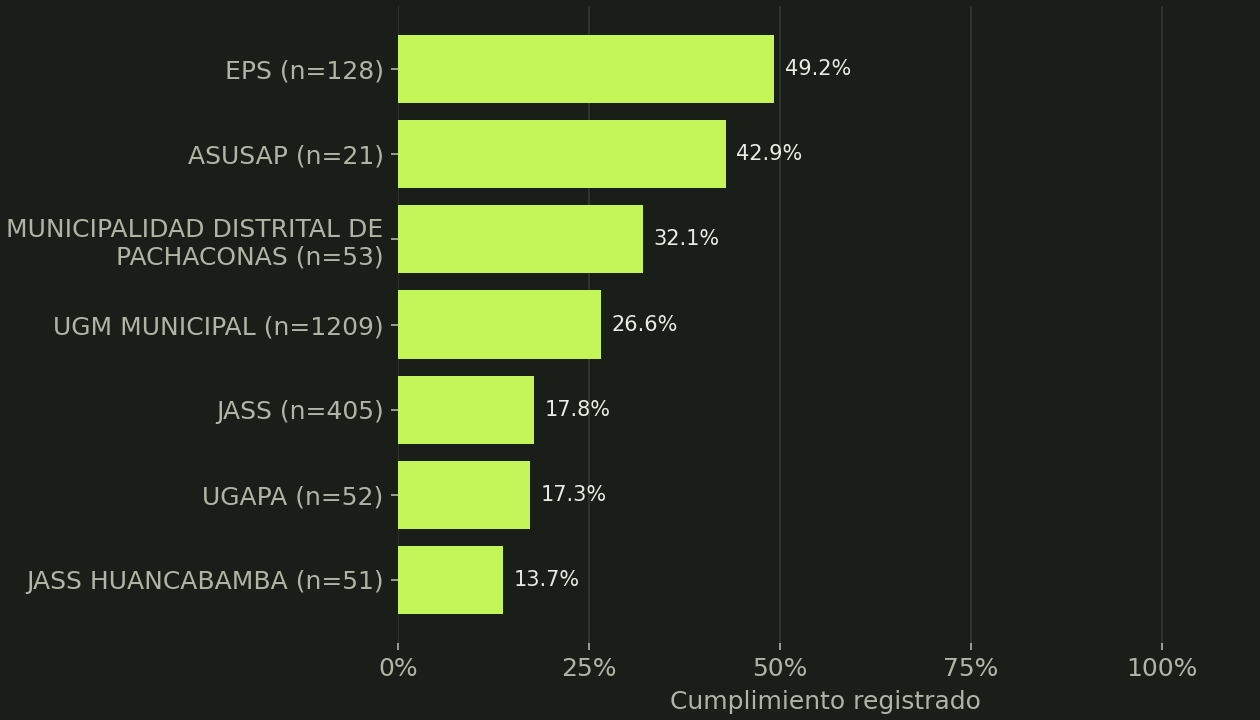
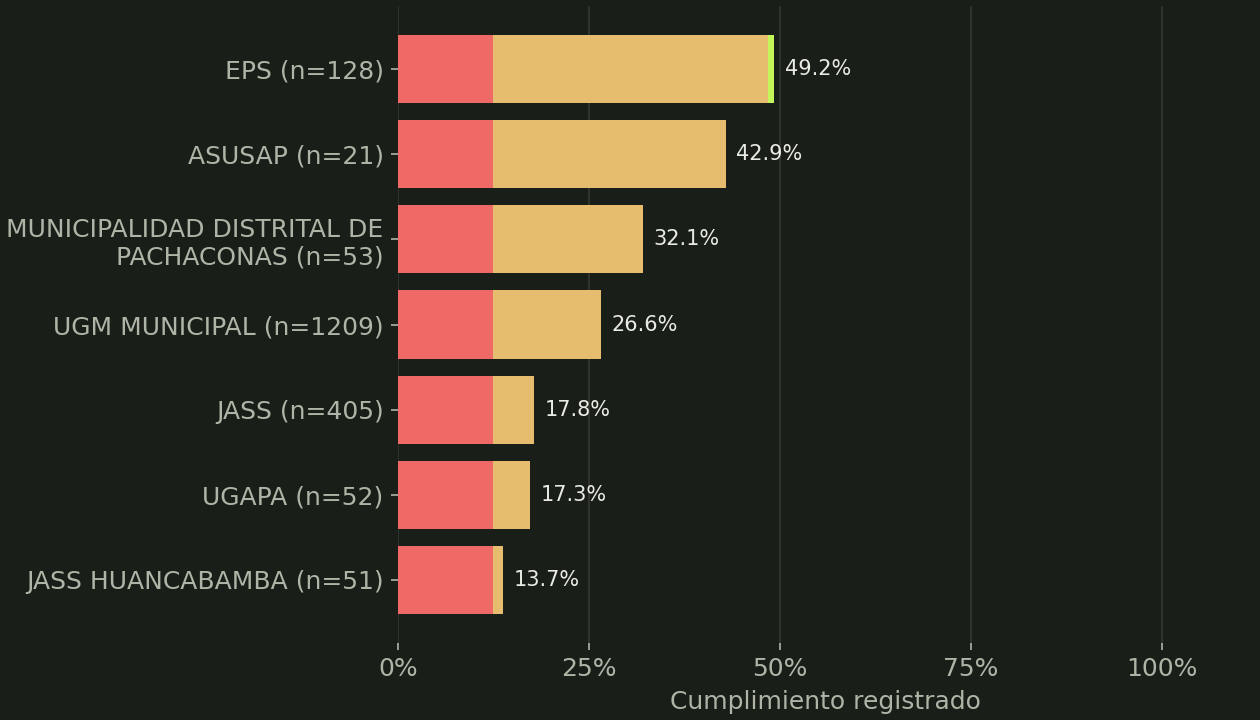
Mejora diseño adaptable y documenta temas claro y oscuro

Changed region(s): [[0.3095, 0.0306, 0.619, 0.8556]]

diff --git a/src/App.css b/src/App.css
@@ -1,5 +1,5 @@
 .shell { width: min(100% - 2 * clamp(1rem, 4vw, 4rem), 84rem); margin-inline: auto; }
-.skip-link { position: fixed; top: 1rem; left: 1rem; z-index: 5; padding: 1rem; background: var(--accent); color: var(--ground); transform: translateY(-200%); }
+.skip-link { position: fixed; top: 1rem; left: 1rem; z-index: 5; padding: 1rem; background: var(--accent); color: var(--on-accent); transform: translateY(-200%); }
 .skip-link:focus { transform: none; }
 .site-header { border-bottom: 1px solid var(--edge); }
 .header-content { min-height: 4.5rem; display: flex; align-items: center; justify-content: space-between; gap: .75rem 1.5rem; }
@@ -10,6 +10,20 @@
 .brand-symbol i:nth-child(2) { opacity: .72; }
 .brand-symbol i:nth-child(3) { opacity: .42; }
 .site-header nav { display: flex; align-items: center; gap: clamp(.85rem, 3vw, 2.5rem); }
+.theme-toggle {
+  min-height: 44px;
+  display: inline-flex;
+  align-items: center;
+  gap: .45rem;
+  border: 1px solid var(--edge);
+  background: var(--surface);
+  color: var(--ink);
+  padding: .5rem .72rem;
+  border-radius: 999px;
+  font-weight: 750;
+}
+.theme-toggle span { color: var(--accent); font-size: 1.1rem; }
+.theme-toggle:hover { border-color: var(--accent); }
 .site-header nav a, .site-footer a, .text-link { min-height: 44px; display: inline-flex; align-items: center; gap: .4rem; font-size: .95rem; text-decoration: none; }
 .site-header nav a:hover, .site-header nav a[aria-current], .site-footer a:hover, .text-link:hover { color: var(--accent); }
 
@@ -20,12 +34,12 @@
 .hero p { max-width: 29ch; margin-top: 1.75rem; font-size: clamp(1rem, 1.55vw, 1.35rem); line-height: 1.45; color: var(--ink); }
 .hero-art { margin-left: -13%; align-self: stretch; position: relative; overflow: hidden; background: var(--ground); clip-path: polygon(0 2%, 100% 0%, 100% 96%, 6% 100%); }
 .hero-art img { width: 100%; height: 100%; min-height: 23rem; position: absolute; inset: 0; object-fit: cover; object-position: 55% center; }
-.primary-link { display: inline-flex; align-items: center; justify-content: space-between; gap: 1.7rem; min-height: 48px; padding: .65rem 1rem; margin-top: 1.45rem; background: var(--accent); color: var(--ground); text-decoration: none; font-weight: 800; transition: background .18s ease; }
+.primary-link { display: inline-flex; align-items: center; justify-content: space-between; gap: 1.7rem; min-height: 48px; padding: .65rem 1rem; margin-top: 1.45rem; background: var(--accent); color: var(--on-accent); text-decoration: none; font-weight: 800; transition: background .18s ease; }
 .primary-link:hover { background: #e1ff9f; }
 .primary-link span { font-size: 1.3rem; }
-.metrics-band { background: var(--accent); color: var(--ground); }
+.metrics-band { background: var(--accent); color: var(--on-accent); }
 .metrics { display: grid; grid-template-columns: 1.18fr .8fr .8fr 1.15fr; padding-block: 1.15rem; gap: 1rem; }
-.metric { min-width: 0; display: flex; flex-direction: column-reverse; justify-content: center; gap: .1rem; padding-inline: clamp(.25rem, 2vw, 1.5rem); border-left: 1px solid #608124; }
+.metric { min-width: 0; display: flex; flex-direction: column-reverse; justify-content: center; gap: .1rem; padding-inline: clamp(.25rem, 2vw, 1.5rem); border-left: 1px solid color-mix(in srgb, var(--ground) 38%, transparent); }
 .metric dt { font-size: .9rem; font-weight: 700; }
 .metric dd { font: 800 clamp(2.3rem, 5.4vw, 4.7rem)/.9 var(--display); letter-spacing: -.02em; }
 
@@ -58,7 +72,7 @@
 .prediction-fields { display: grid; grid-template-columns: repeat(2, minmax(0, 1fr)); gap: 1rem; }
 .form-field { display: grid; gap: .4rem; min-width: 0; }
 .form-field :is(input,select) { width: 100%; min-height: 44px; border: 1px solid var(--edge); background: var(--ground); color: var(--ink); padding: .55rem; }
-.prediction-submit { min-height: 48px; border: 0; padding: .65rem .8rem; color: var(--ground); background: var(--accent); font-weight: 750; }
+.prediction-submit { min-height: 48px; border: 0; padding: .65rem .8rem; color: var(--on-accent); background: var(--accent); font-weight: 750; }
 .prediction-submit span { margin-left: .5rem; }
 
 .site-footer { border-top: 1px solid var(--edge); }
@@ -72,11 +86,12 @@
 }
 @media (max-width: 650px) {
   .header-content { padding-block: .35rem; flex-wrap: wrap; column-gap: 1rem; }
-  .site-header nav { gap: clamp(.85rem, 3.7vw, 1.5rem); }
-  .site-header nav a { font-size: .86rem; }
+  .site-header nav { width: 100%; display: grid; grid-template-columns: repeat(2, minmax(0, 1fr)); gap: .25rem .5rem; }
+  .site-header nav a { min-height: 44px; padding-inline: .5rem; font-size: .9rem; }
+  .theme-toggle { min-height: 44px; justify-content: center; padding-inline: .6rem; font-size: .88rem; }
   .hero { display: flex; flex-direction: column; align-items: stretch; min-height: 0; padding-block: 2.45rem 1.25rem; gap: 1.5rem; }
   .hero-copy { align-self: start; padding: 0; }
-  .hero h1 { font-size: clamp(4.4rem, 18vw, 7rem); }
+  .hero h1 { font-size: clamp(4rem, 18vw, 7rem); }
   .hero p { margin-top: 1.25rem; }
   .hero-art { aspect-ratio: 1.6; margin-left: 0; }
   .hero-art img { min-height: 0; }
@@ -84,6 +99,9 @@
   .metric dt { font-size: .83rem; }
   .context-section { grid-template-columns: 1fr; gap: 1.2rem; }
   .charts-grid, .prediction-fields { grid-template-columns: 1fr; }
+  .prediction-shell { padding-block: 1rem 3rem; }
+  .prediction-card { gap: 1rem; padding: 1rem; }
+  .prediction-submit { line-height: 1.35; }
   .footer-content { grid-template-columns: 1fr; }
 }
 
@@ -105,6 +123,9 @@
   .section-heading .chart-count { margin-top: .5rem; }
   .chart-caption { padding-inline: .9rem; }
   .chart-interpretation { padding-inline: .9rem; }
+  .chart-dialog { width: calc(100vw - 1rem); max-height: 90dvh; padding: .8rem; }
+  .dialog-actions { align-items: stretch; }
+  .dialog-actions > * { justify-content: center; }
 }
 
 .arrow { display: inline-block; width: .8em; height: .8em; position: relative; flex: none; }
@@ -122,5 +143,13 @@
 .zoom-control:hover { border-color: var(--accent); }
 @media (max-width: 650px) {
   .chart-filters { gap: .35rem; }
-  .chart-filters button { padding-inline: .55rem; font-size: .88rem; }
+  .chart-filters button { min-height: 44px; padding-inline: .65rem; font-size: .9rem; }
+  .dialog-image--zoom img { min-width: 48rem; }
+}
+
+@media (max-width: 360px) {
+  .shell { width: calc(100% - 1.5rem); }
+  .hero h1 { font-size: 3.8rem; }
+  .metric dd { font-size: 2.1rem; }
+  .metric dt { font-size: .78rem; }
 }

diff --git a/src/App.jsx b/src/App.jsx
@@ -9,8 +9,22 @@ function leerVista() {
   return window.location.hash === '#prediccion' ? 'prediccion' : 'contexto'
 }
 
+function leerTema() {
+  const guardado = window.localStorage.getItem('residual-theme')
+  if (guardado === 'claro' || guardado === 'oscuro') return guardado
+  return window.matchMedia('(prefers-color-scheme: light)').matches ? 'claro' : 'oscuro'
+}
+
 function App() {
   const [vista, setVista] = useState(leerVista)
+  const [tema, setTema] = useState(leerTema)
+
+  useEffect(() => {
+    document.documentElement.dataset.theme = tema
+    document.documentElement.style.colorScheme = tema
+    window.localStorage.setItem('residual-theme', tema)
+  }, [tema])
+
   useEffect(() => {
     const actualizarVista = () => setVista(leerVista())
     window.addEventListener('hashchange', actualizarVista)
@@ -38,6 +52,16 @@ function App() {
             <a href="#inicio">Contexto</a>
             <a href="#analisis">Gráficos</a>
             <a href="#prediccion" aria-current={vista === 'prediccion' ? 'page' : undefined}>Predicción IA</a>
+            <button
+              className="theme-toggle"
+              type="button"
+              aria-label={`Cambiar a tema ${tema === 'oscuro' ? 'claro' : 'oscuro'}`}
+              aria-pressed={tema === 'claro'}
+              onClick={() => setTema((actual) => actual === 'oscuro' ? 'claro' : 'oscuro')}
+            >
+              <span aria-hidden="true">{tema === 'oscuro' ? '☀' : '☾'}</span>
+              {tema === 'oscuro' ? 'Claro' : 'Oscuro'}
+            </button>
           </nav>
         </div>
       </header>

diff --git a/src/index.css b/src/index.css
@@ -14,19 +14,33 @@
 
 :root {
   font-family: 'DM Sans', system-ui, sans-serif;
-  color: #f6f6f4;
-  background: #111310;
-  color-scheme: dark;
+  color: #1b1d19;
+  background: #f4f6ef;
+  color-scheme: light;
   font-synthesis: none;
   text-rendering: optimizeLegibility;
   -webkit-font-smoothing: antialiased;
+  --ground: #f4f6ef;
+  --surface: #ffffff;
+  --edge: #d4d9cb;
+  --ink: #1b1d19;
+  --muted: #5d6457;
+  --accent: #86a600;
+  --on-accent: #1b1d19;
+  --display: 'Barlow Condensed', 'Arial Narrow', system-ui, sans-serif;
+}
+
+:root[data-theme='oscuro'] {
+  color: #f6f6f4;
+  background: #111310;
+  color-scheme: dark;
   --ground: #111310;
   --surface: #1a1e18;
   --edge: #353b30;
   --ink: #f6f6f4;
   --muted: #bdc4b5;
   --accent: #c4f65a;
-  --display: 'Barlow Condensed', 'Arial Narrow', system-ui, sans-serif;
+  --on-accent: #111310;
 }
 
 * { box-sizing: border-box; }

diff --git a/scripts/graficos.py b/scripts/graficos.py
@@ -17,6 +17,10 @@ MUTED = "#aeb5a6"
 FONDO = "#1a1e18"
 LIMA = "#c4f65a"
 COLORES = {"CRITICO": "#ff8879", "DEFICIENTE": "#e6bd6e", "OPTIMO": LIMA, "ALTO": "#bbadfa"}
+AZUL = "#67a9ff"
+TURQUESA = "#55b8a8"
+ROJO = "#ef6a67"
+AMARILLO = "#e6bd6e"
 ETIQUETAS = {"CRITICO": "Crítico", "DEFICIENTE": "Deficiente", "OPTIMO": "Óptimo", "ALTO": "Alto"}
 
 plt.rcParams.update({
@@ -38,7 +42,16 @@ def guardar(fig, destino, nombre):
     plt.close(fig)
 
 
-def barras_horizontales(serie, etiqueta, color=LIMA):
+def color_por_valor(valor, minimo, maximo):
+    posicion = (valor - minimo) / (maximo - minimo) if maximo > minimo else 1
+    if posicion < .33:
+        return ROJO
+    if posicion < .67:
+        return AMARILLO
+    return LIMA
+
+
+def barras_horizontales(serie, etiqueta, color=AZUL):
     fig, ax = figura()
     barras = ax.barh([fill(str(v), width=25) for v in serie.index], serie.values, color=color)
     ax.bar_label(barras, padding=5, color=TINTA, fontsize=10)
@@ -79,7 +92,8 @@ def principal():
         ("tasa", "cumplimiento-mensual", "Cumplimiento registrado"),
     ):
         fig, ax = figura()
-        ax.plot(range(len(mensual)), mensual[campo], color=LIMA, linewidth=2.5, marker="o", markersize=4)
+        color = AZUL if campo == "promedio" else AMARILLO
+        ax.plot(range(len(mensual)), mensual[campo], color=color, linewidth=2.5, marker="o", markersize=4)
         marcas = sorted(set(range(0, len(mensual), 4)) | {len(mensual) - 1})
         ax.set(xticks=marcas, xticklabels=mensual.index[marcas], xlabel="Periodo", ylabel=etiqueta)
         ax.set_ylim(bottom=0)
@@ -94,7 +108,8 @@ def principal():
 
     fig, ax = figura()
     medias = provincias["clo_resid"].mean().sort_values(ascending=False)
-    barras = ax.bar(medias.index, medias, color=LIMA)
+    colores = [color_por_valor(valor, medias.min(), medias.max()) for valor in medias]
+    barras = ax.bar(medias.index, medias, color=colores)
     ax.bar_label(barras, fmt="%.2f", color=TINTA, padding=5, fontsize=10)
     ax.set(ylabel="Cloro residual promedio", ylim=(0, medias.max() * 1.2))
     plt.setp(ax.get_xticklabels(), rotation=32, ha="right")
@@ -103,7 +118,8 @@ def principal():
 
     fig, ax = figura()
     nombres = [fill(f"{nombre} (n={fila.cantidad:.0f})", 28) for nombre, fila in prestadores.iterrows()]
-    barras = ax.barh(nombres, prestadores["tasa"], color=LIMA)
+    colores = [color_por_valor(valor, prestadores["tasa"].min(), prestadores["tasa"].max()) for valor in prestadores["tasa"]]
+    barras = ax.barh(nombres, prestadores["tasa"], color=colores)
     ax.bar_label(barras, labels=[f"{v:.1%}" for v in prestadores["tasa"]], color=TINTA, padding=5, fontsize=10)
     ax.set(xlabel="Cumplimiento registrado", xlim=(0, 1.12), xticks=[0, .25, .5, .75, 1])
     ax.xaxis.set_major_formatter(mticker.PercentFormatter(1, decimals=0))
@@ -112,7 +128,7 @@ def principal():
 
     fig, ax = figura()
     puntos = datos.groupby(["longitud", "latitud"], as_index=False)["clo_resid"].mean()
-    imagen = ax.scatter(puntos["longitud"], puntos["latitud"], c=puntos["clo_resid"], cmap="viridis",
+    imagen = ax.scatter(puntos["longitud"], puntos["latitud"], c=puntos["clo_resid"], cmap="RdYlGn",
                         s=40, linewidths=.5, edgecolors=TINTA)
     fig.colorbar(imagen, ax=ax).set_label("Cloro residual promedio")
     ax.set(xlabel="Longitud", ylabel="Latitud")
@@ -121,7 +137,10 @@ def principal():
     guardar(fig, destino, "puntos-monitoreados")
 
     fig, ax = figura()
-    ax.hist(datos["clo_resid"], bins=18, color=LIMA, edgecolor=FONDO)
+    conteos, bordes, parches = ax.hist(datos["clo_resid"], bins=18, edgecolor=FONDO)
+    centros = (bordes[:-1] + bordes[1:]) / 2
+    for parche, centro in zip(parches, centros):
+        parche.set_facecolor(color_por_valor(centro, bordes.min(), bordes.max()))
     ax.set(xlabel="Cloro residual", ylabel="Registros")
     ax.grid(axis="y")
     guardar(fig, destino, "distribucion-cloro")

diff --git a/README.md b/README.md
@@ -1,29 +1,67 @@
 # Residual Web
 
-Dashboard académico para explorar el monitoreo de cloro residual en las instituciones educativas de Apurímac. Incluye diez gráficos de Matplotlib, filtros por tema y una vista ampliada con descarga de PNG.
+Dashboard académico para explorar el monitoreo de cloro residual en instituciones educativas de Apurímac, Perú. Presenta indicadores del conjunto de datos y diez gráficos con filtros, ampliación y descarga en PNG.
+
+## Funcionalidades
+
+- Tema claro y oscuro, con preferencia guardada en el navegador.
+- Diseño adaptable a escritorio y teléfonos móviles.
+- Indicadores de monitoreo y galería de gráficos agrupados por tema.
+- Vista ampliada de cada gráfico y descarga de su imagen PNG.
+- Sección de predicción con formulario de demostración. La conexión con el modelo y su API todavía no está implementada.
+
+## Tecnologías
+
+- React 19 y Vite.
+- Python 3, Pandas y Matplotlib para preparar los datos y generar gráficos.
+- Barlow Condensed y DM Sans, incluidas en `public/fonts/` con sus licencias.
 
 ## Desarrollo local
+
+Se requiere Node.js y npm. Desde la raíz del proyecto:
 
 ```bash
 npm ci
 npm run dev
-npm run lint
-npm run build
 ```
 
-Para un despliegue Vite, se usa `npm run build` y el directorio de salida `dist`.
-
-## Actualizar datos y gráficos
-
-Se requiere Python 3 con Pandas y Matplotlib. Los comandos reciben el CSV del proyecto, con punto y coma como separador y encabezados originales.
+Comprobaciones disponibles:
 
 ```bash
-python scripts/monitoreo.py ruta/al/cloro_residual_mi_cole_0.csv
-python scripts/graficos.py ruta/al/cloro_residual_mi_cole_0.csv
+npm run lint
+npm run build
+npm run preview
 ```
 
-El primer comando actualiza el resumen en `src/data/monitoreo.json`. El segundo escribe los diez PNG en `public/graficos/`. Las fichas que acompañan cada gráfico están en `src/data/graficos.js`. Si cambia el periodo o la distribución, revisar también los textos interpretativos.
+La compilación de producción se genera en `dist/`. Para desplegar el sitio estático, publica ese directorio en un servidor compatible con aplicaciones Vite.
 
-Cada fila corresponde a un registro de monitoreo. El cumplimiento usa el indicador `cumple_nor` del CSV. La pestaña de predicción conserva el formulario de la plantilla para la integración posterior del modelo.
+## Datos y gráficos
 
-Barlow Condensed y DM Sans se incluyen con sus licencias en `public/fonts/`. La ilustración editorial de portada se generó para este proyecto.
+Para regenerar los datos se requiere Python 3 con Pandas y Matplotlib. Usa el CSV fuente, separado por punto y coma y con los encabezados originales:
+
+```bash
+python scripts/monitoreo.py ruta/al/archivo.csv
+python scripts/graficos.py ruta/al/archivo.csv
+```
+
+El primer comando actualiza `src/data/monitoreo.json`; el segundo crea los diez PNG en `public/graficos/`. Ejecuta ambos comandos cuando actualices el CSV.
+
+Las fichas, títulos, descripciones accesibles y grupos de la galería se mantienen en `src/data/graficos.js`. Si los nuevos datos cambian la interpretación, actualiza también sus textos.
+
+Cada fila del CSV representa un registro de monitoreo. El indicador `cumple_nor` determina el cumplimiento registrado. Los gráficos distinguen los estados con una paleta semántica: rojo para crítico, amarillo para deficiente, verde para óptimo y violeta para alto; otras visualizaciones usan tonos variados para facilitar su lectura.
+
+## Estructura principal
+
+```text
+src/
+  components/   Componentes de contexto, galería, gráficos y predicción
+  data/         Resumen JSON y fichas de gráficos
+  App.jsx       Navegación, tema y vistas principales
+  App.css       Estilos de componentes y adaptación móvil
+  index.css     Estilos globales y variables de tema
+scripts/
+  monitoreo.py  Lectura y resumen del CSV
+  graficos.py   Generación de gráficos PNG
+public/
+  graficos/     Gráficos servidos por el sitio
+```
